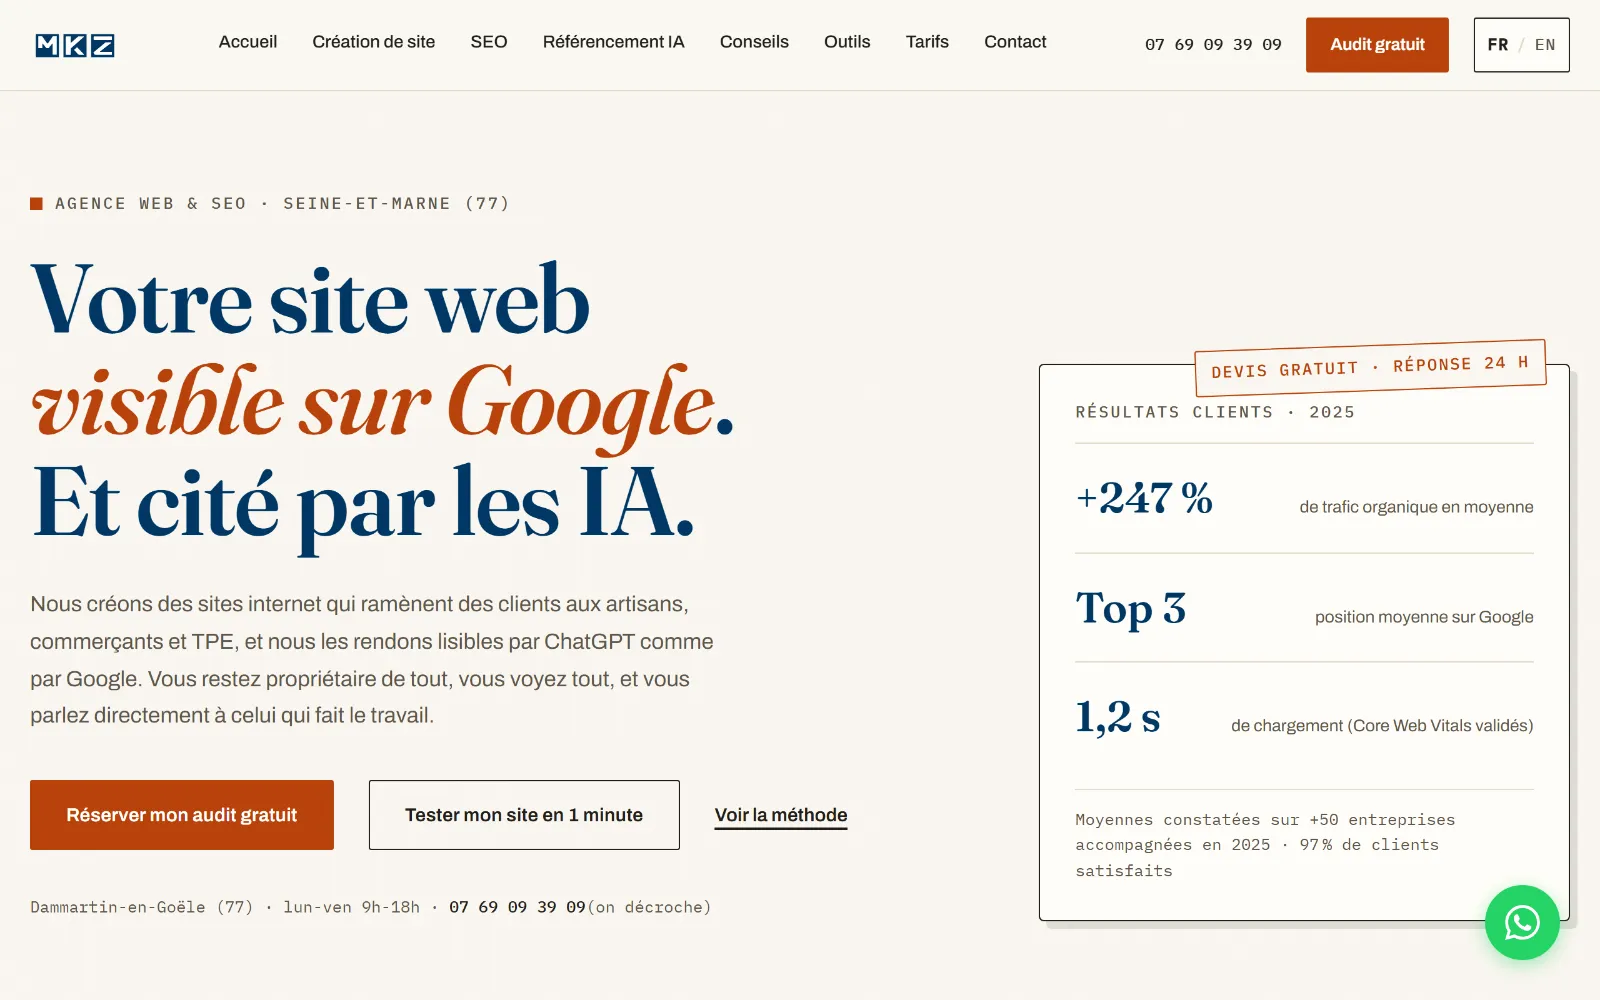
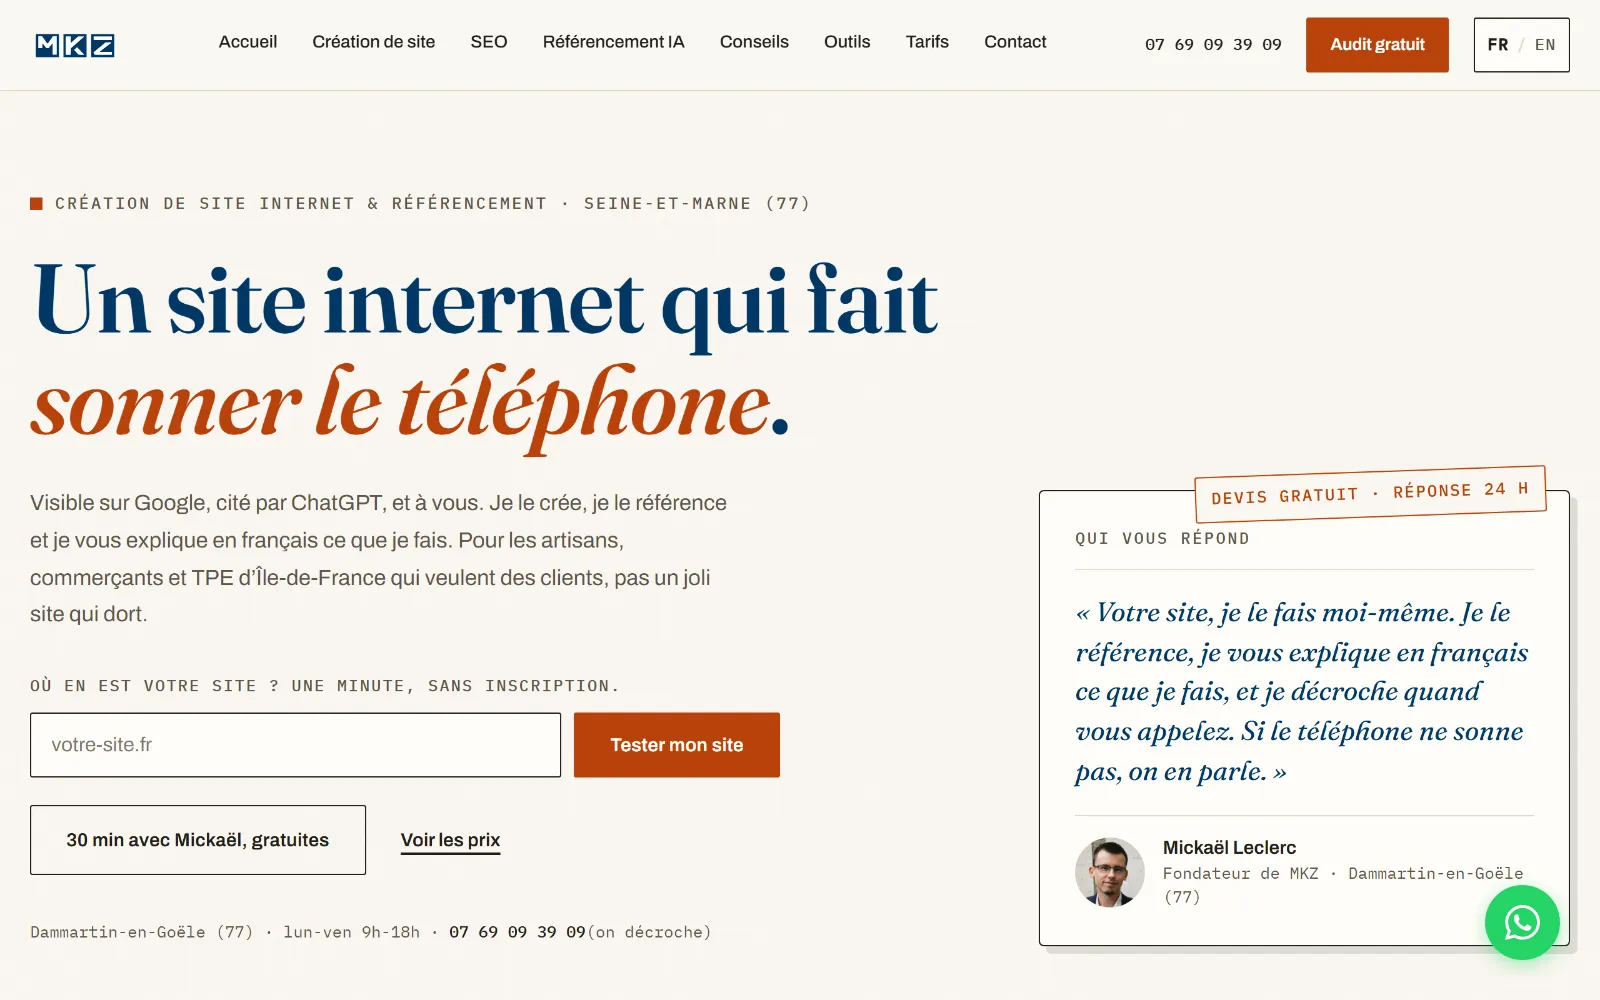
readme : captures de l'accueil refaites après la refonte du 14/09/2026

diff --git a/README.md b/README.md
@@ -33,10 +33,10 @@
 <p align="center"><sub>Ce README est en français. <a href="#in-english">English summary at the end.</a></sub></p>
 
 <p align="center">
-  <img src=".github/readme/accueil-1280.webp" alt="Accueil de mkz-consulting.fr à 1 280 px : titre « Votre site web visible sur Google. Et cité par les IA. », deux boutons d'action, carte de résultats" width="640">
+  <img src=".github/readme/accueil-1280.webp" alt="Accueil de mkz-consulting.fr à 1 280 px : titre « Un site internet qui fait sonner le téléphone. », formulaire de test du site, carte « Qui vous répond » avec le portrait du fondateur" width="640">
   <img src=".github/readme/accueil-375.webp" alt="Le même accueil à 375 px : une colonne, menu burger et bouton d'appel accessibles dans le premier écran" width="185">
 </p>
-<p align="center"><sub>Accueil en production, capturé le 09/09/2026 à 1 280 px et à 375 px, bandeau de consentement refusé avant le chargement.</sub></p>
+<p align="center"><sub>Accueil en production, capturé le 14/09/2026 à 1 280 px et à 375 px, bandeau de consentement refusé avant le chargement.</sub></p>
 
 ## Ce que ce dépôt contient
 
